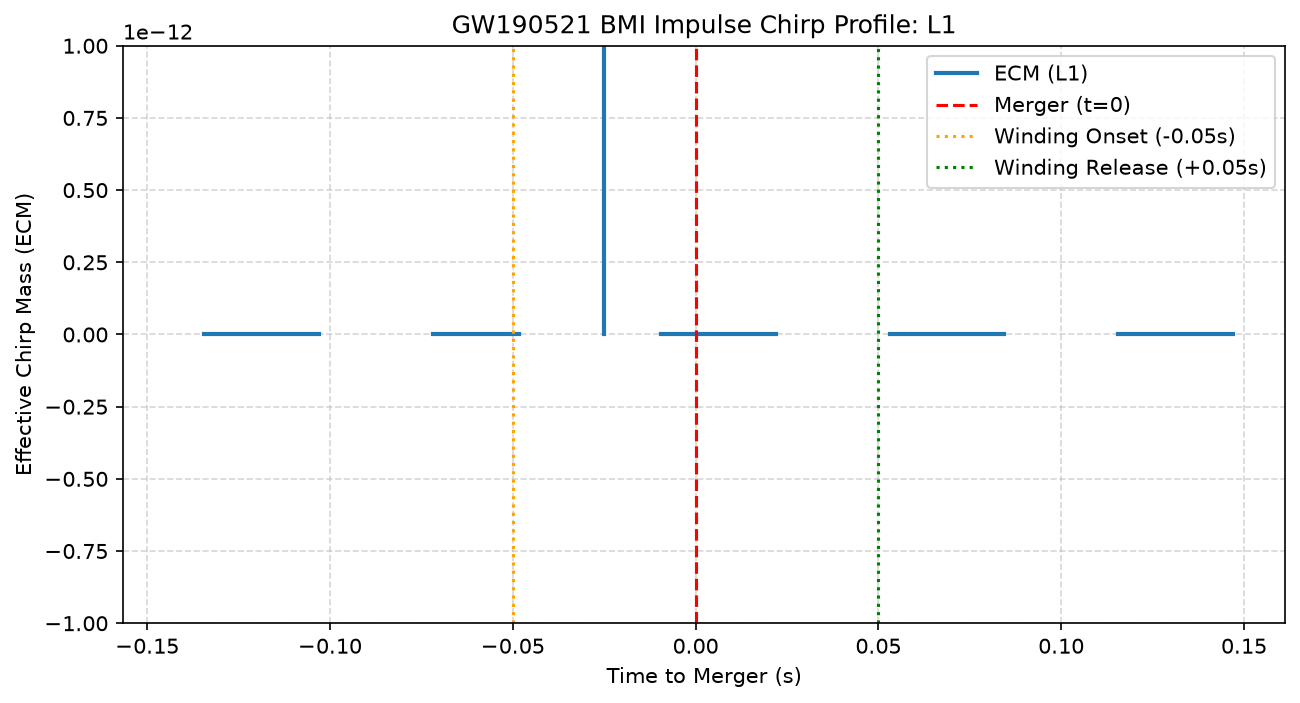
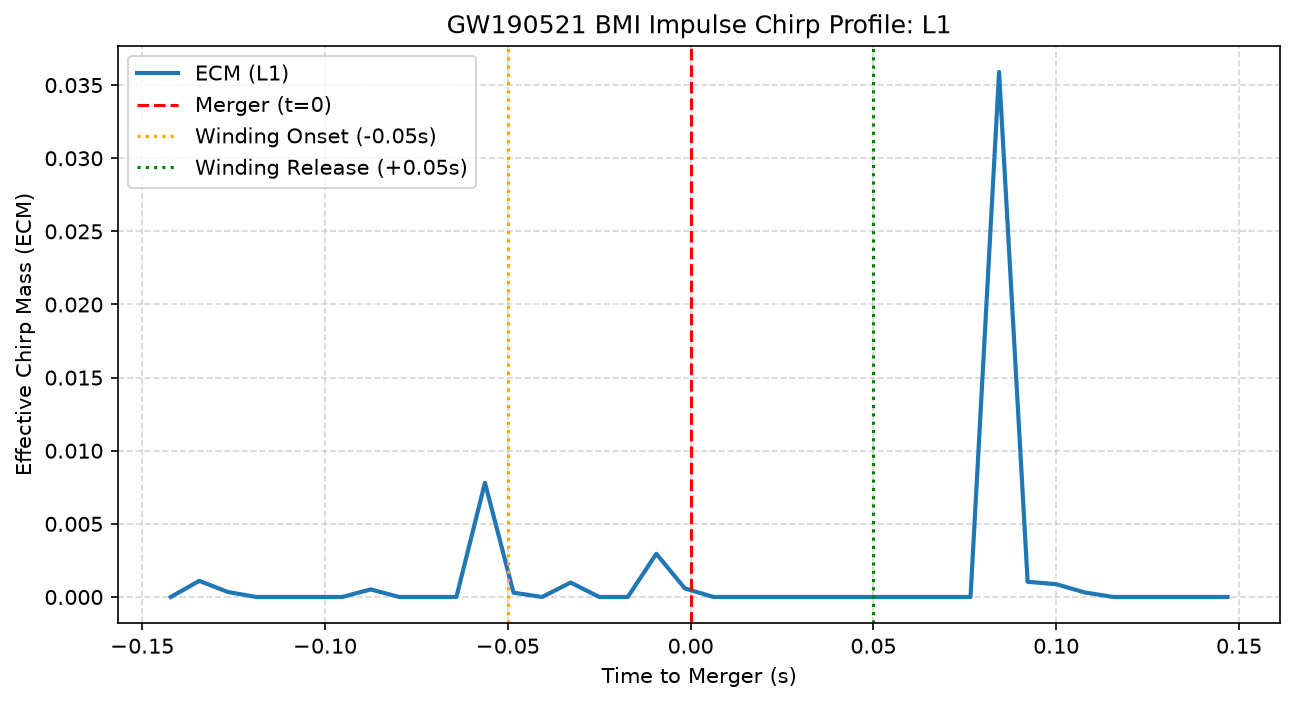
analysis: add 50-500 Hz bandpass to GW190521 pipeline; rerun produces cleaner chirp and ringdown results

diff --git a/src/analysis/run_lvk_pipeline.py b/src/analysis/run_lvk_pipeline.py
@@ -10,7 +10,7 @@ import matplotlib
 matplotlib.use('Agg')  # non-interactive backend for codespace/server environments
 import matplotlib.pyplot as plt
 import h5py
-from scipy.signal import stft
+from scipy.signal import stft, butter, sosfiltfilt
 from pycbc.types import TimeSeries
 
 # GW190521 merger GPS time (GWTC-2)
@@ -20,6 +20,14 @@ BMI_FREQ_SPLIT_HZ = 15.00
 BMI_COUPLING_K    = 0.13
 
 OUTPUT_DIR = os.path.join(os.path.dirname(__file__), '..', '..', 'assets', 'images')
+
+
+def bandpass(ts, low_hz=50.0, high_hz=500.0):
+    """Bandpass filter strain to isolate the GW signal band."""
+    fs  = int(1.0 / ts.delta_t)
+    sos = butter(8, [low_hz, high_hz], btype='bandpass', fs=fs, output='sos')
+    filtered = sosfiltfilt(sos, ts.numpy())
+    return TimeSeries(filtered, delta_t=ts.delta_t, epoch=ts.start_time)
 
 
 def load_hdf5_strain(path):
@@ -164,6 +172,9 @@ def run(h5_dir='data'):
         ts = load_hdf5_strain(h5_path)
         print(f'  Loaded {len(ts)} samples @ {1.0/ts.delta_t:.0f} Hz, '
               f'epoch={float(ts.start_time):.1f}')
+
+        ts = bandpass(ts)
+        print(f'  Bandpass applied: 50–500 Hz')
 
         analyze_impulse_chirp(ts, det, OUTPUT_DIR)
         analyze_ringdown(ts, det, OUTPUT_DIR)
